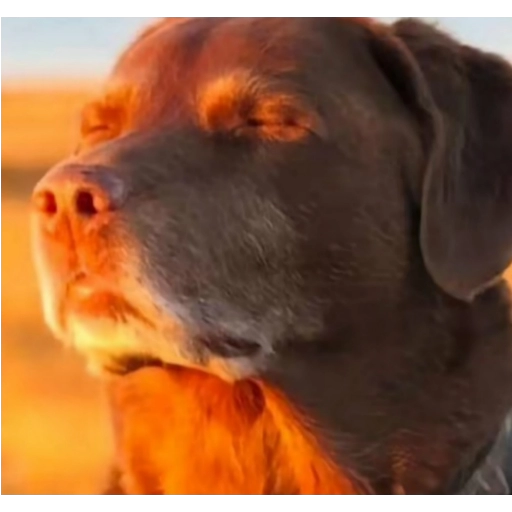
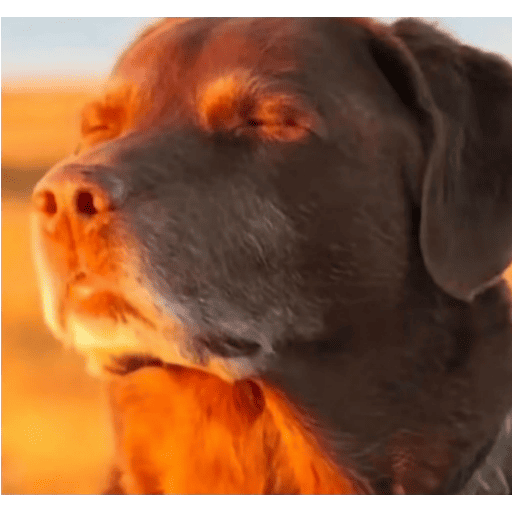
Compresso cane.png; aggiunta logica frontend classifica

diff --git a/j4v2/static/js/classifica.js b/j4v2/static/js/classifica.js
@@ -1,0 +1,76 @@
+const valoriRow = document.getElementById("valoriRow");
+
+function aggiorna_classifica(payload) {
+    const valori = payload.valori;
+    const righe = payload.righe;
+    const righeSquadra = Array.from({ length: numero_squadre }, (_, indice) =>
+        document.getElementById(`squadraRow_${indice}`)
+    );
+    const posizioniIniziali = new Map(
+        righeSquadra.map((riga) => [riga, riga.getBoundingClientRect().top])
+    );
+
+    // AGGIORNA VALORI
+    valoriRow.innerHTML = "";
+    for (let p = -3; p < numero_problemi; p++) {
+        const cell = document.createElement("td");
+        cell.classList.add("table__cell");
+        if (p < 0) cell.innerHTML = "";
+        else cell.innerHTML = valori[p]; // TODO: mettere il valore anziché 20
+        valoriRow.append(cell);
+    }
+
+    // AGGIORNA RIGHE SQUADRE
+    for (let s = 0; s < numero_squadre; s++) {
+        const rigaSquadra = righeSquadra[s];
+        rigaSquadra.innerHTML = "";
+        for (let p = 0; p < numero_problemi + 3; p++) {
+            const cell = document.createElement("td");
+            cell.classList.add("table__cell");
+            cell.innerHTML = righe[s][p];
+            rigaSquadra.append(cell);
+        }
+    }
+
+    const righeOrdinate = righe
+        .map((riga, indice) => ({ dati: riga, elemento: righeSquadra[indice] }))
+        .sort((a, b) => Number(a.dati[0]) - Number(b.dati[0]));
+    const contenitoreRighe = righeSquadra[0]?.parentElement;
+    if (!contenitoreRighe) return;
+
+    for (const { elemento } of righeOrdinate) {
+        contenitoreRighe.append(elemento);
+    }
+
+    if (window.matchMedia("(prefers-reduced-motion: reduce)").matches) return;
+
+    for (const { elemento } of righeOrdinate) {
+        const spostamentoY = posizioniIniziali.get(elemento) - elemento.getBoundingClientRect().top;
+        if (Math.abs(spostamentoY) < 1) continue;
+
+        elemento.animate(
+            [
+                { transform: `translateY(${spostamentoY}px)` },
+                { transform: "translateY(0)" },
+            ],
+            {
+                duration: 1800,
+                easing: "cubic-bezier(0.2, 0.75, 0.25, 1)",
+            }
+        );
+    }
+}
+
+async function aggiornaPeriodicamente() {
+    try {
+        const response = await fetch(`/get_classifica_table?id=${id_gara}`);
+        if (!response.ok) throw new Error(`HTTP error! Status: ${response.status}`);
+        aggiorna_classifica(await response.json());
+    } catch (error) {
+        console.error(error);
+    } finally {
+        setTimeout(aggiornaPeriodicamente, 5000);
+    }
+}
+
+aggiornaPeriodicamente();

diff --git a/j4v2/templates/classifica.html b/j4v2/templates/classifica.html
@@ -1,0 +1,50 @@
+{% extends "layout.html" %}
+
+{% block extra_css %}
+    <link rel="stylesheet" href="/static/css/classifica.css">
+{% endblock %}
+
+{% block content %}
+    <h1 id="titoloGara">{{ gara.titolo }}</h1>
+    
+    <table id="classificaTable" class="classifica-table">
+        <tr class="table__header">
+            <th class="table__cell">Pos.</th>
+            <th class="table__cell">Squadra</th>
+            <th class="table__cell">Punteggio</th>
+            {% for i in range(gara.numero_problemi) %}
+                <th class="table__cell">P{{i+1}}</th>
+            {% endfor %}
+        </tr>
+        
+        <tr id="valoriRow" class="table__row">
+            <td class="table__cell"></td>
+            <td class="table__cell"></td>
+            <td class="table__cell"></td>
+            {% for i in range(gara.numero_problemi) %}
+                <td class="table__cell">VAL</td>
+            {% endfor %}
+        </tr>
+
+        {% for idx_squadra in range(gara.numero_squadre) %}
+            <tr id="squadraRow_{{ idx_squadra }}" class="table__row">
+                <td class="table__cell">#</td>
+                <td class="table__cell">NOME</td>
+                <td class="table__cell">SCORE</td>
+                {% for idx_problema in range(gara.numero_problemi) %}
+                    <td class="table__cell">/</td>
+                {% endfor %}
+            </tr>
+        {% endfor %}
+    </table>
+{% endblock %}
+
+{% block extra_script %}
+    <script>
+        const id_gara = parseInt("{{ gara.id }}")
+        const numero_problemi = parseInt("{{ gara.numero_problemi }}");
+        const numero_squadre = parseInt("{{ gara.numero_squadre }}");
+    </script>
+
+    <script src="/static/js/classifica.js"></script>
+{% endblock %}

diff --git a/j4v2/static/css/classifica.css b/j4v2/static/css/classifica.css
@@ -1,0 +1,47 @@
+.content {
+    text-align: center;
+    align-items: center;
+    justify-content: center;
+    place-items: center;
+}
+
+#titoloGara {
+    margin-top: 10px;
+    margin-bottom: 40px;
+    color: var(--j4-text-black);
+    font-size: 50px;
+}
+
+.classifica-table {
+    background-color: white;
+}
+/*
+.table__row:nth-child(odd) {
+    background-color: #f6f6f6;
+}
+*/
+.table__header {
+    text-align: center;
+    font-size: 20px;
+}
+
+.table__cell {
+    padding: 6px;
+    text-align: center;
+    width: 200pt;
+    border: 1px solid black;
+    border-radius: 4px;
+    white-space: nowrap;
+}
+
+.casellina-1 {
+    background-color: lightcoral;
+}
+
+.casellina1 {
+    background-color: lightgreen;
+}
+
+.jolly {
+    box-shadow: 0px 0px 0px 3px yellow inset;
+}

diff --git a/j4v2/templates/archivio_gare.html b/j4v2/templates/archivio_gare.html
@@ -28,7 +28,7 @@
                         <div class="gara-card-right">
                             <p>{{ gara.squadre | length }} {{ 'partecipanti' if gara.is_allenamento else 'squadre' }}</p>
                             <p>{{ gara.problemi | length }} problemi</p>
-                            <a class="gara-link" href="/visualizza_gara?id={{ gara.id }}">{{ 'Vedi allenamento' if gara.is_allenamento else 'Vedi gara' }}</a>
+                            <a class="gara-link" href="/classifica?id={{ gara.id }}">{{ 'Vedi tabellone finale' if gara.is_allenamento else 'Vedi classifica finale' }}</a>
                         </div>
                     </div>
                 </li>

diff --git a/j4v2/templates/visualizza_gara.html b/j4v2/templates/visualizza_gara.html
@@ -1,5 +1,9 @@
 {% extends "layout.html" %}
 
+{% block extra_css %}
+    <link rel="stylesheet" href="/static/css/visualizza_gara.css">
+{% endblock extra_css %}
+
 {% block content %}
     <h1>{{ gara.titolo }}</h1>
 
@@ -15,4 +19,6 @@
     {% for problema in gara.problemi %}
         <p>{{ problema.titolo }}</p>
     {% endfor %}
+
+    <a class="gara-link" href="/classifica?id={{ gara.id }}">{{ 'Vedi tabellone' if gara.is_allenamento else 'Vedi classifica' }}</a>
 {% endblock %}

diff --git a/j4v2/static/css/visualizza_gara.css b/j4v2/static/css/visualizza_gara.css
@@ -1,0 +1,11 @@
+.gara-link {
+    display: inline-block;
+    margin-top: 10px;
+    color: var(--j4-dark-green);
+    font-weight: 700;
+    text-decoration: none;
+}
+
+.gara-link:hover {
+    text-decoration: underline;
+}

diff --git a/j4v2/routes.py b/j4v2/routes.py
@@ -1,11 +1,12 @@
 from datetime import datetime, timezone
 
-from flask import render_template, redirect, url_for, flash, abort, send_from_directory, request, jsonify
+from flask import render_template, redirect, url_for, flash, abort, request, jsonify
 from flask_login import login_user, logout_user, current_user, login_required
 from j4v2 import app, db, bcrypt
 from j4v2.models import *
 from j4v2.forms import LoginForm, RegistrationForm, RequestForm
 from j4v2.utils import *
+from j4v2.classifica_builder import *
 from sqlalchemy import or_
 
 import random
@@ -103,7 +104,7 @@ def calendario():
     ).all()
     gare_lontane.sort(key = lambda g: g.unix_start)
 
-    return render_template("calendario.html", title = "Calendario", gare_in_corso = gare_in_corso, gare_prossime = gare_prossime, gare_future = gare_da_startare + gare_lontane)
+    return render_template("calendario.html", title = "Calendario", gare_in_corso = gare_in_corso, gare_prossime = gare_prossime, gare_future = gare_lontane + gare_da_startare)
 
 @app.route("/visualizza_gara")
 def visualizza_gara():
@@ -117,7 +118,44 @@ def visualizza_gara():
         if current_user.ruolo < 1 and current_user not in gara.user_spettatori and current_user != gara.richiedente:
             abort(403)
     
-    return render_template("visualizza_gara.html", title = gara.titolo, gara = gara)
+    return render_template("visualizza_gara.html", title = f"Preview: {gara.titolo}", gara = gara)
+
+
+@app.route("/classifica")
+def classifica():
+    id = request.args.get("id")
+    gara = Gara.query.get(id)
+    if not gara:
+        abort(404)
+    if not gara.is_pubblica:
+        if not current_user.is_authenticated:
+            abort(401)
+        if current_user.ruolo < 1 and current_user not in gara.user_spettatori and current_user != gara.richiedente:
+            abort(403)
+
+    return render_template("classifica.html", title = gara.titolo, gara = gara.basic_dict())
+
+@app.route("/get_classifica_table")
+def get_classifica_table():
+    id = request.args.get("id")
+    gara = Gara.query.get(id)
+    if not gara:
+        abort(404)
+    if not gara.is_pubblica:
+        if not current_user.is_authenticated:
+            abort(401)
+        if current_user.ruolo < 1 and current_user not in gara.user_spettatori and current_user != gara.richiedente:
+            abort(403)
+
+    update_from_submissions(gara)
+    
+    valori_aggiornati = get_valori_aggiornati(gara)
+    righe_aggiornate = get_righe_aggiornate(gara)
+
+    return jsonify({
+        "valori": valori_aggiornati,
+        "righe": righe_aggiornate
+    })
 
 @app.route("/archivio_gare")
 def archivio_gare():

diff --git a/j4v2/models.py b/j4v2/models.py
@@ -50,7 +50,7 @@ class User(db.Model, UserMixin):
     def __repr__(self):
         return f"User({self.username})"
 
-from j4v2.utils import int_to_month # qui per evitare circular import
+from j4v2.utils import int_to_day, int_to_month # qui per evitare circular import
 
 class Gara(db.Model):
     id = db.Column(db.Integer, primary_key = True)
@@ -84,7 +84,7 @@ class Gara(db.Model):
             return None
         dt = datetime.fromtimestamp(self.unix_start, tz = timezone.utc).astimezone(ZoneInfo("Europe/Rome"))
         data_contratta = dt.strftime("%d/%m/%Y")
-        data_estesa = f"{dt.day} {int_to_month[dt.month]} {dt.year}"
+        data_estesa = f"{int_to_day[dt.weekday()]} {dt.day} {int_to_month[dt.month]} {dt.year}"
         orario = f"{dt.hour:02}:{dt.minute:02}" + (f":{dt.second:02}" if dt.second else "")
         return {
             "data_contratta": data_contratta,
@@ -122,6 +122,14 @@ class Gara(db.Model):
 
     def __repr__(self):
         return f"Gara({self.titolo})"
+
+    def basic_dict(self): # viene mandato con /classifica
+        return {
+            "id": self.id,
+            "titolo": self.titolo,
+            "numero_problemi": self.numero_problemi,
+            "numero_squadre": self.numero_squadre
+        }
 
 class Problema(db.Model):
     id = db.Column(db.Integer, primary_key = True)

diff --git a/j4v2/classifica_builder.py b/j4v2/classifica_builder.py
@@ -1,0 +1,19 @@
+from j4v2.models import *
+import random
+
+def update_from_submissions(gara: Gara):
+    pass
+
+def get_valori_aggiornati(gara: Gara):
+    return [random.randint(20, 30) for _ in range(gara.numero_problemi)]
+
+def get_righe_aggiornate(gara: Gara):
+    righe = [
+        [0, squadra.nome, random.randint(100,999)] + [0 for problema in gara.problemi] for squadra in gara.squadre
+    ]
+    posizioni = sorted(range(gara.numero_squadre), key=lambda idx: righe[idx][2], reverse=True)
+
+    for pos, i in enumerate(posizioni, start = 1):
+        righe[i][0] = pos
+
+    return righe
